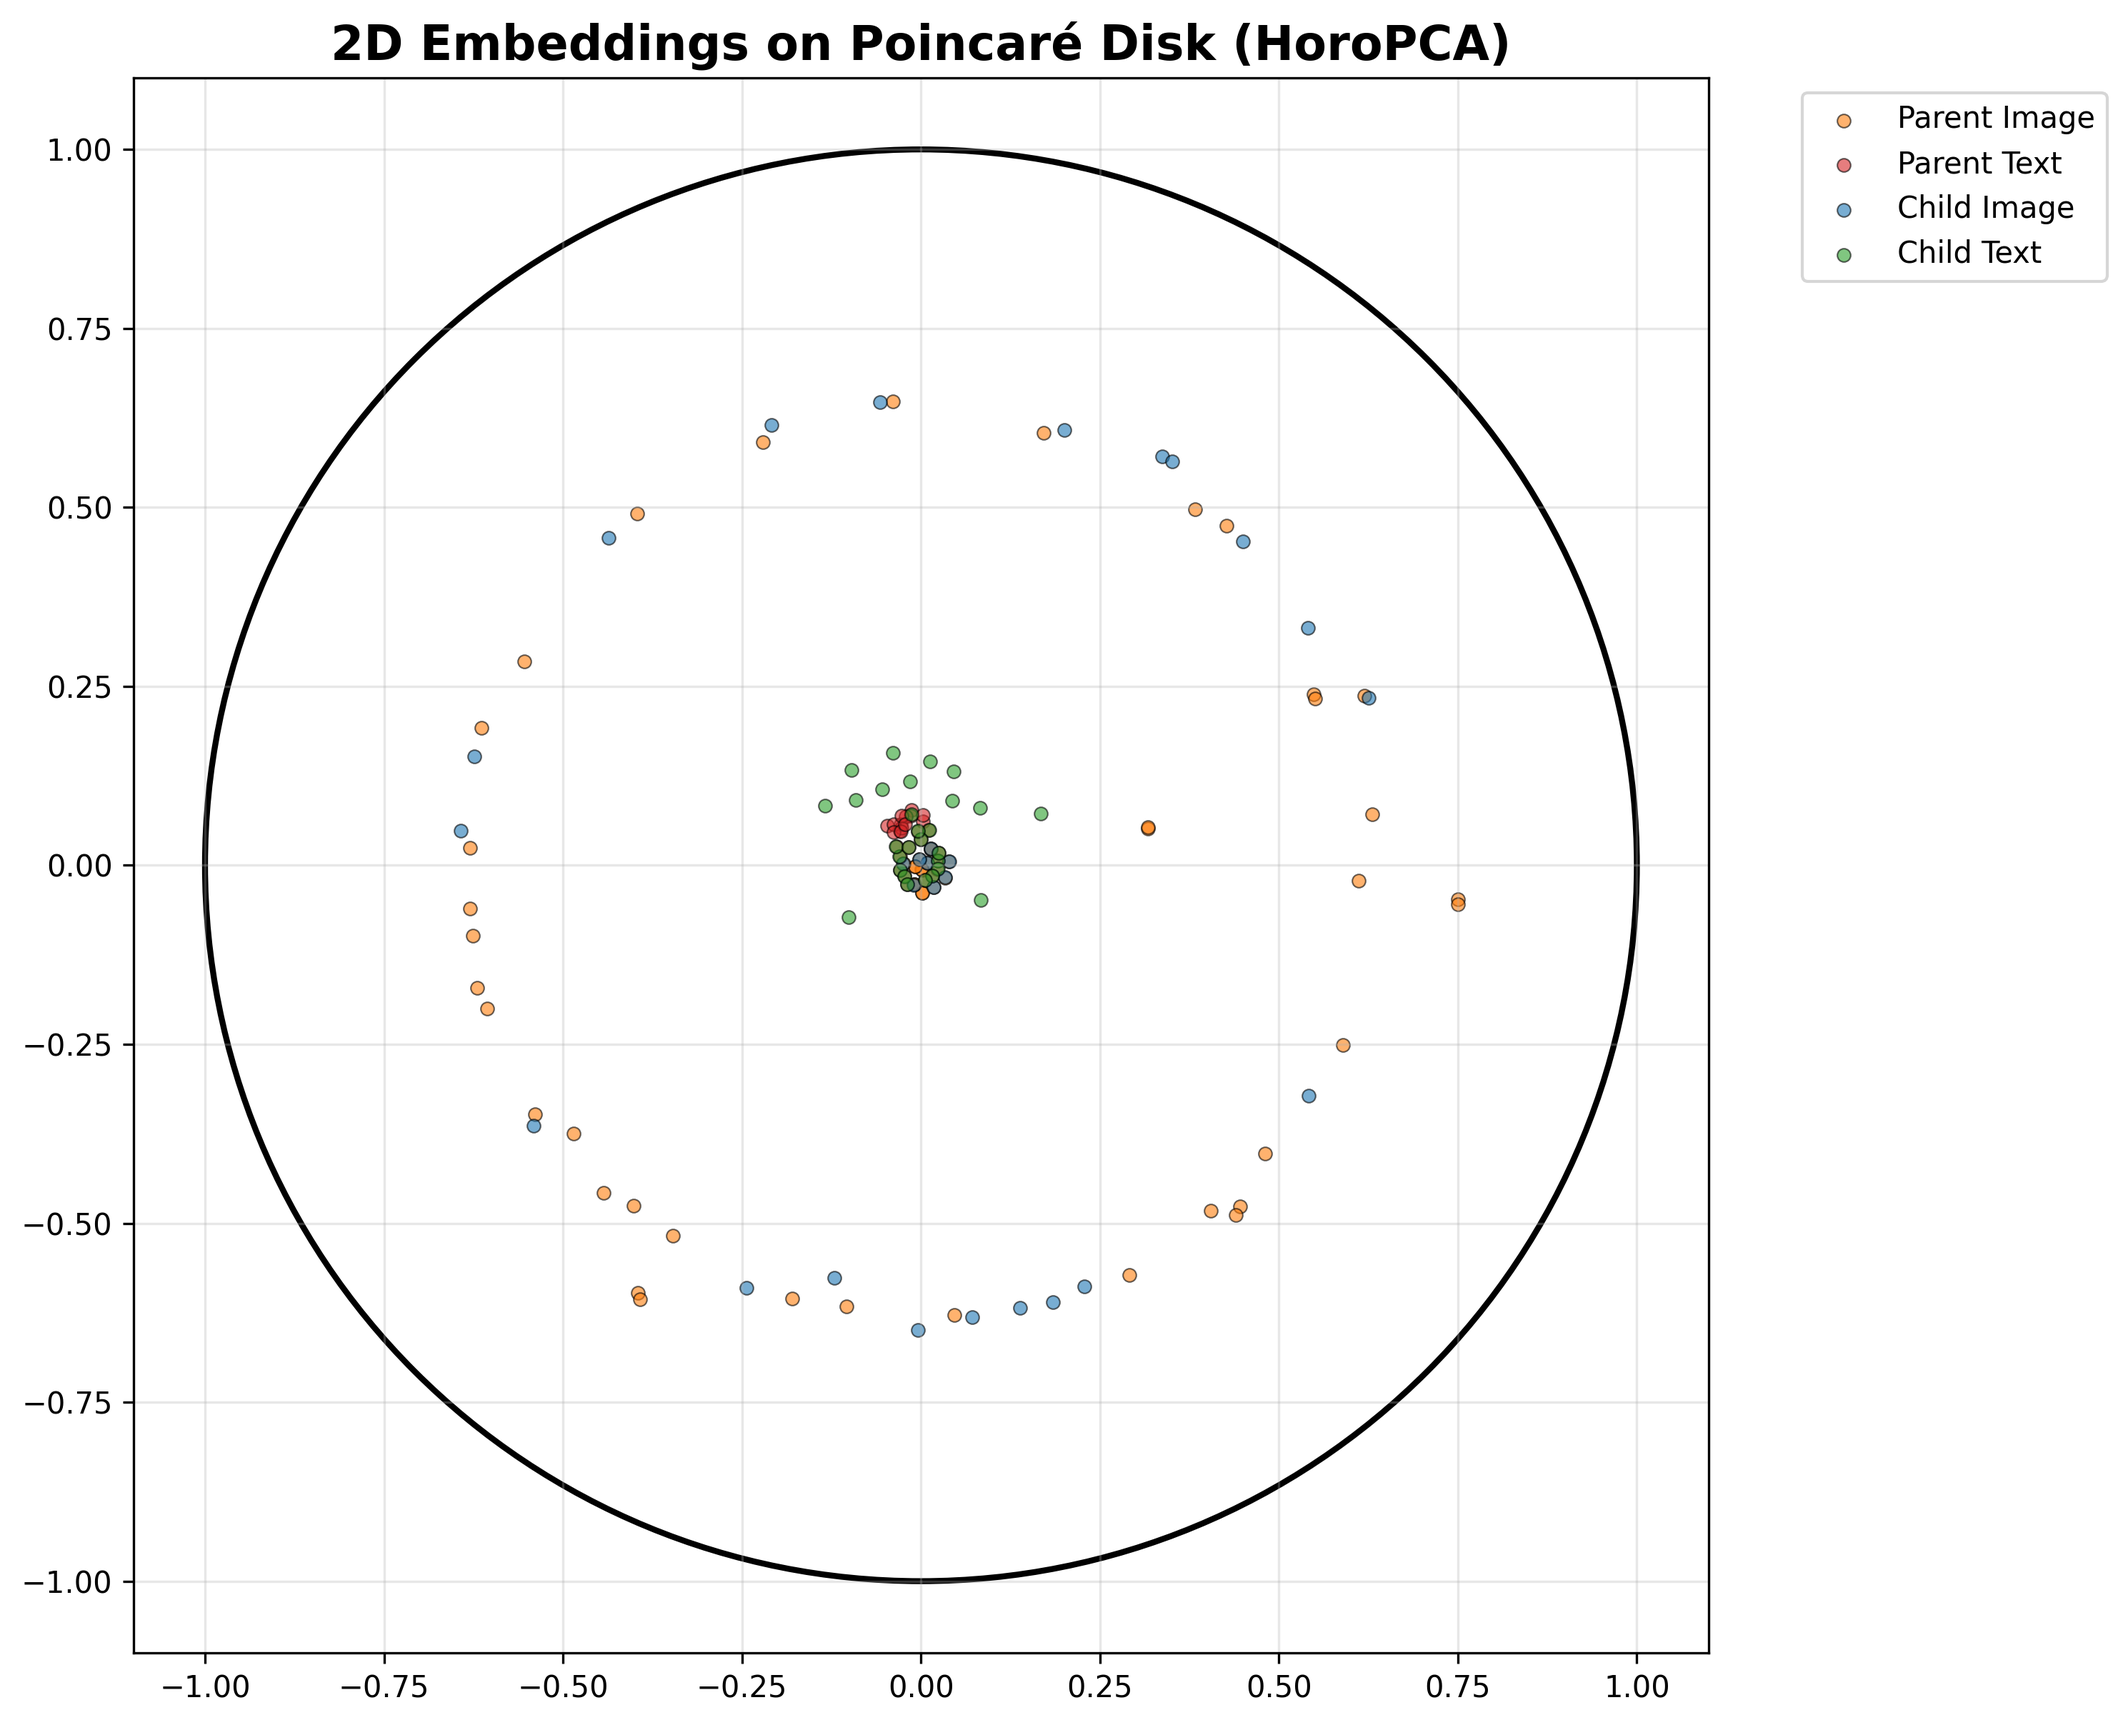
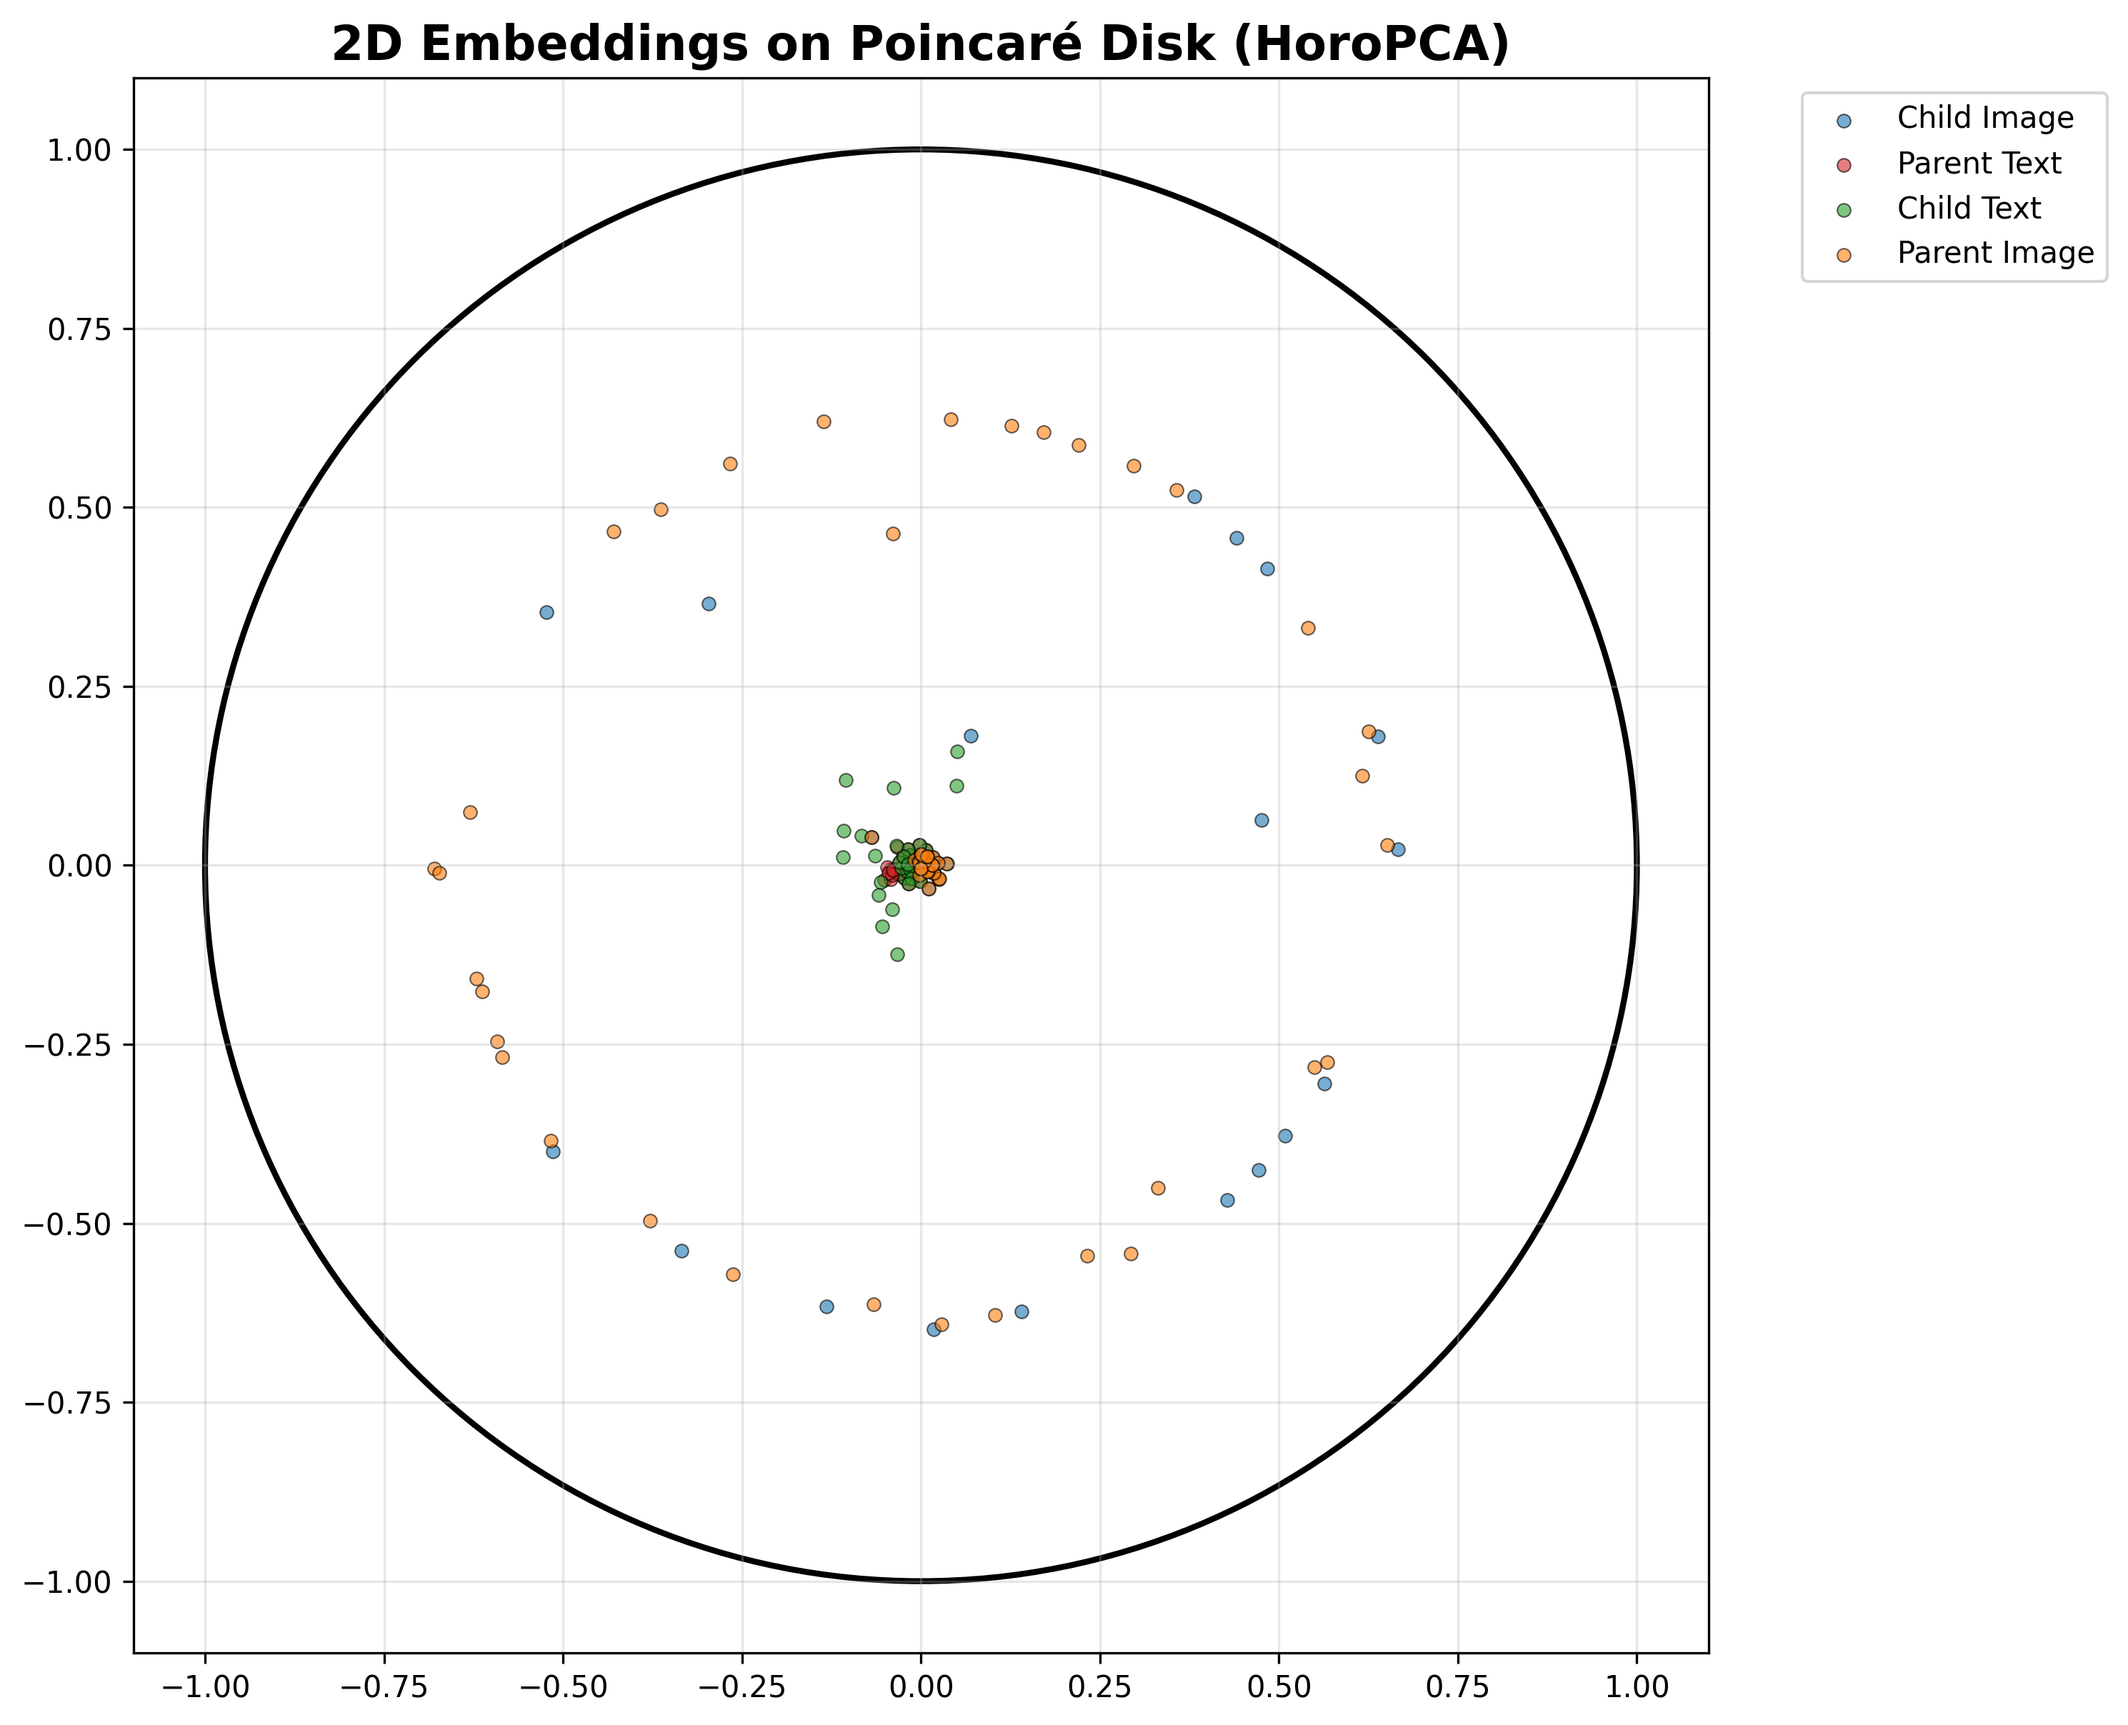
reproducable subsets and projections

diff --git a/projection_methods/create_projections.py b/projection_methods/create_projections.py
@@ -82,6 +82,9 @@ def parse_arguments():
     parser.add_argument("--n-project", type=int, default=0, help="Number of samples to project (0 = all, >0 = balanced tree sampling)")
     parser.add_argument("--children-per-tree", type=int, default=5, help="Number of child images to sample per tree when using balanced sampling")
     
+    # Reproducibility
+    parser.add_argument("--seed", type=int, default=42, help="Random seed for reproducibility")
+    
     # Plotting args
     parser.add_argument("--plot", action="store_true", help="Generate and save plots")
     
@@ -118,7 +121,7 @@ class EmbeddingLoader:
     def __init__(self, dataset_path):
         self.dataset_path = Path(dataset_path)
         
-    def load_embeddings(self, n_project=0, children_per_tree=5):
+    def load_embeddings(self, n_project=0, children_per_tree=5, seed=42):
         """Load embeddings from embeddings.pkl file."""
         embeddings_path = self.dataset_path / "embeddings.pkl"
         
@@ -134,7 +137,7 @@ class EmbeddingLoader:
         embeddings_dict = embed_data['embeddings']
         
         if n_project > 0:
-            return self._load_balanced_trees(embeddings_dict, n_project, children_per_tree)
+            return self._load_balanced_trees(embeddings_dict, n_project, children_per_tree, seed)
         else:
             return self._load_all_embeddings(embeddings_dict)
     
@@ -165,17 +168,16 @@ class EmbeddingLoader:
         
         return {'embeddings': embeddings, 'labels': labels}
     
-    def _load_balanced_trees(self, embeddings_dict, n_project, children_per_tree):
+    def _load_balanced_trees(self, embeddings_dict, n_project, children_per_tree, seed=42):
         """Load balanced trees to reach approximately n_project embeddings."""
         import random
+        random.seed(seed)
         
         # Calculate how many trees we need to reach n_project embeddings
         # Each tree contributes: 1 parent_text + 1 child_text + children_per_tree child_images
         embeddings_per_tree = 2 + children_per_tree  # parent_text + child_text + child_images
         balanced_trees = max(1, n_project // embeddings_per_tree)
         
-        print(f"Using balanced tree sampling: {balanced_trees} trees with {children_per_tree} child images each")
-        print(f"Target: ~{n_project} embeddings, Expected: ~{balanced_trees * embeddings_per_tree} embeddings")
         
         # Group embeddings by tree
         trees = {}
@@ -261,9 +263,13 @@ class ProjectionMethods:
     def __init__(self, device):
         self.device = device
     
-    def apply_horopca(self, embeddings, n_components=2, lr=5e-2, max_steps=500):
+    def apply_horopca(self, embeddings, n_components=2, lr=5e-2, max_steps=500, seed=42):
         """Apply HoroPCA reduction."""
         print(f"Applying HoroPCA (dim: {n_components})...")
+        
+        # Set random seeds for reproducibility
+        torch.manual_seed(seed)
+        np.random.seed(seed)
         
         torch.set_default_dtype(torch.float64)
         embeddings = embeddings.double().to(self.device)
@@ -285,15 +291,20 @@ class ProjectionMethods:
         return reduced
     
     def apply_cosne(self, embeddings, lr=0.5, lr_h=0.01, perplexity=30, 
-                   exaggeration=12.0, gamma=0.1):
+                   exaggeration=12.0, gamma=0.1, seed=42):
         """Apply CO-SNE reduction."""
         print("Applying CO-SNE...")
+        
+        # Set random seeds for reproducibility
+        torch.manual_seed(seed)
+        np.random.seed(seed)
         
         co_sne = hTSNE(
             n_components=2, verbose=0, method='exact', square_distances=True,
             metric='precomputed', learning_rate_for_h_loss=lr_h,
             student_t_gamma=gamma, learning_rate=lr, n_iter=1000,
-            perplexity=perplexity, early_exaggeration=exaggeration
+            perplexity=perplexity, early_exaggeration=exaggeration,
+            random_state=seed
         )
         
         dists = pmath.dist_matrix(embeddings, embeddings, c=1).numpy()
@@ -302,9 +313,12 @@ class ProjectionMethods:
         print(f"✓ CO-SNE complete: {embeddings.shape} → {reduced.shape}")
         return torch.tensor(reduced, dtype=torch.float32)
     
-    def apply_umap(self, embeddings, n_components=3, n_neighbors=15, min_dist=0.1):
+    def apply_umap(self, embeddings, n_components=3, n_neighbors=15, min_dist=0.1, seed=42):
         """Apply UMAP with hyperbolic metric."""
         print(f"Applying UMAP (dim: {n_components})...")
+        
+        # Set random seeds for reproducibility
+        np.random.seed(seed)
         
         # Keep embeddings in hyperboloid coordinates for hyperboloid metric
         embeddings_np = embeddings.detach().cpu().numpy()
@@ -315,7 +329,7 @@ class ProjectionMethods:
             min_dist=min_dist,
             metric=hyperboloid_distance_grad,
             output_metric='hyperboloid',
-            random_state=42
+            random_state=seed
         )
         reduced = reducer.fit_transform(embeddings_np)
         
@@ -336,6 +350,12 @@ def main():
     """Main execution function."""
     args = parse_arguments()
     
+    # Set global seeds for reproducibility
+    torch.manual_seed(args.seed)
+    np.random.seed(args.seed)
+    import random
+    random.seed(args.seed)
+    
     # Setup
     device = torch.device("cuda" if torch.cuda.is_available() else "cpu")
     
@@ -351,7 +371,7 @@ def main():
     # Load embeddings
     print("\n📁 Loading embeddings...")
     loader = EmbeddingLoader(args.dataset_path)
-    embed_data = loader.load_embeddings(args.n_project, args.children_per_tree)
+    embed_data = loader.load_embeddings(args.n_project, args.children_per_tree, args.seed)
     
     # Embeddings are already sampled by the loader if n_project > 0
     embeddings = embed_data['embeddings']
@@ -386,7 +406,7 @@ def main():
     
     if "horopca" in args.methods:
         horopca_result = projector.apply_horopca(
-            embeddings, args.horopca_components, args.horopca_lr, args.horopca_steps
+            embeddings, args.horopca_components, args.horopca_lr, args.horopca_steps, args.seed
         )
         
         # Save HoroPCA result
@@ -414,7 +434,7 @@ def main():
     
     if "umap" in args.methods:
         umap_result = projector.apply_umap(
-            embeddings, args.umap_components, args.umap_neighbors, args.umap_min_dist
+            embeddings, args.umap_components, args.umap_neighbors, args.umap_min_dist, args.seed
         )
         
         # Save UMAP result
@@ -447,17 +467,17 @@ def main():
         if args.cosne_reduce_method == "horopca":
             print(f"  Pre-reducing with HoroPCA to {args.cosne_reduce_dim}D...")
             cosne_input = projector.apply_horopca(
-                embeddings, args.cosne_reduce_dim, args.horopca_lr, args.horopca_steps
+                embeddings, args.cosne_reduce_dim, args.horopca_lr, args.horopca_steps, args.seed
             )
         elif args.cosne_reduce_method == "umap":
             print(f"  Pre-reducing with UMAP to {args.cosne_reduce_dim}D...")
             cosne_input = projector.apply_umap(
-                embeddings, args.cosne_reduce_dim, args.umap_neighbors, args.umap_min_dist
+                embeddings, args.cosne_reduce_dim, args.umap_neighbors, args.umap_min_dist, args.seed
             )
         
         cosne_result = projector.apply_cosne(
             cosne_input, args.cosne_lr, args.cosne_lr_h, args.cosne_perplexity,
-            args.cosne_exaggeration, args.cosne_gamma
+            args.cosne_exaggeration, args.cosne_gamma, args.seed
         )
         
         # Save CO-SNE result
